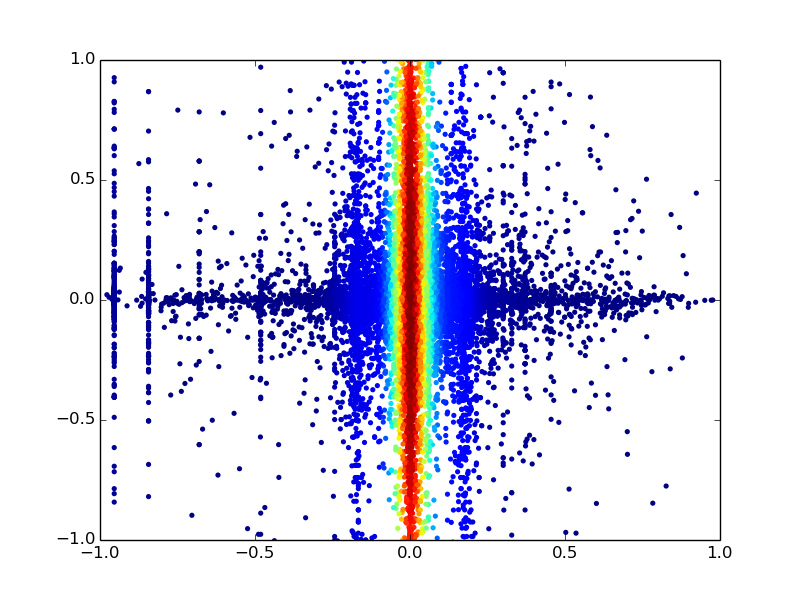
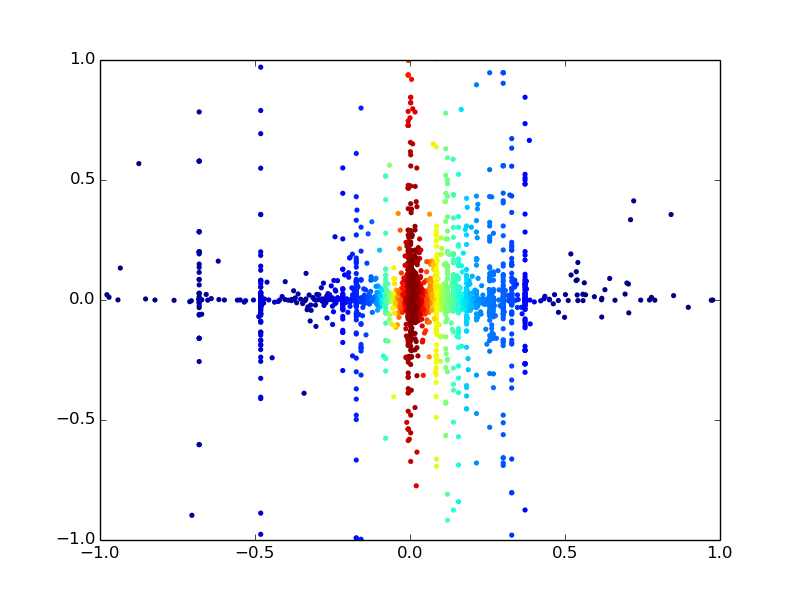
updates

diff --git a/src/model_parameter_comparison.py b/src/model_parameter_comparison.py
@@ -74,7 +74,7 @@ def run2(file1,file2,file3):
             DMSOTSS = float(DMSOTSS)
             CAgenes = float(CAgenes)
             CATSS = float(CATSS)
-            if CAgenes-CATSS != 0 and DMSOgenes-DMSOTSS != 0:
+            if CAgenes-CATSS != 0 and DMSOgenes-DMSOTSS != 0 and CAgenes > cut and DMSOgenes > cut:
                 TR = (CATSS/(CAgenes-CATSS))-(DMSOTSS/(DMSOgenes-DMSOTSS))
                 d3[gene] = TR
     x = list()
